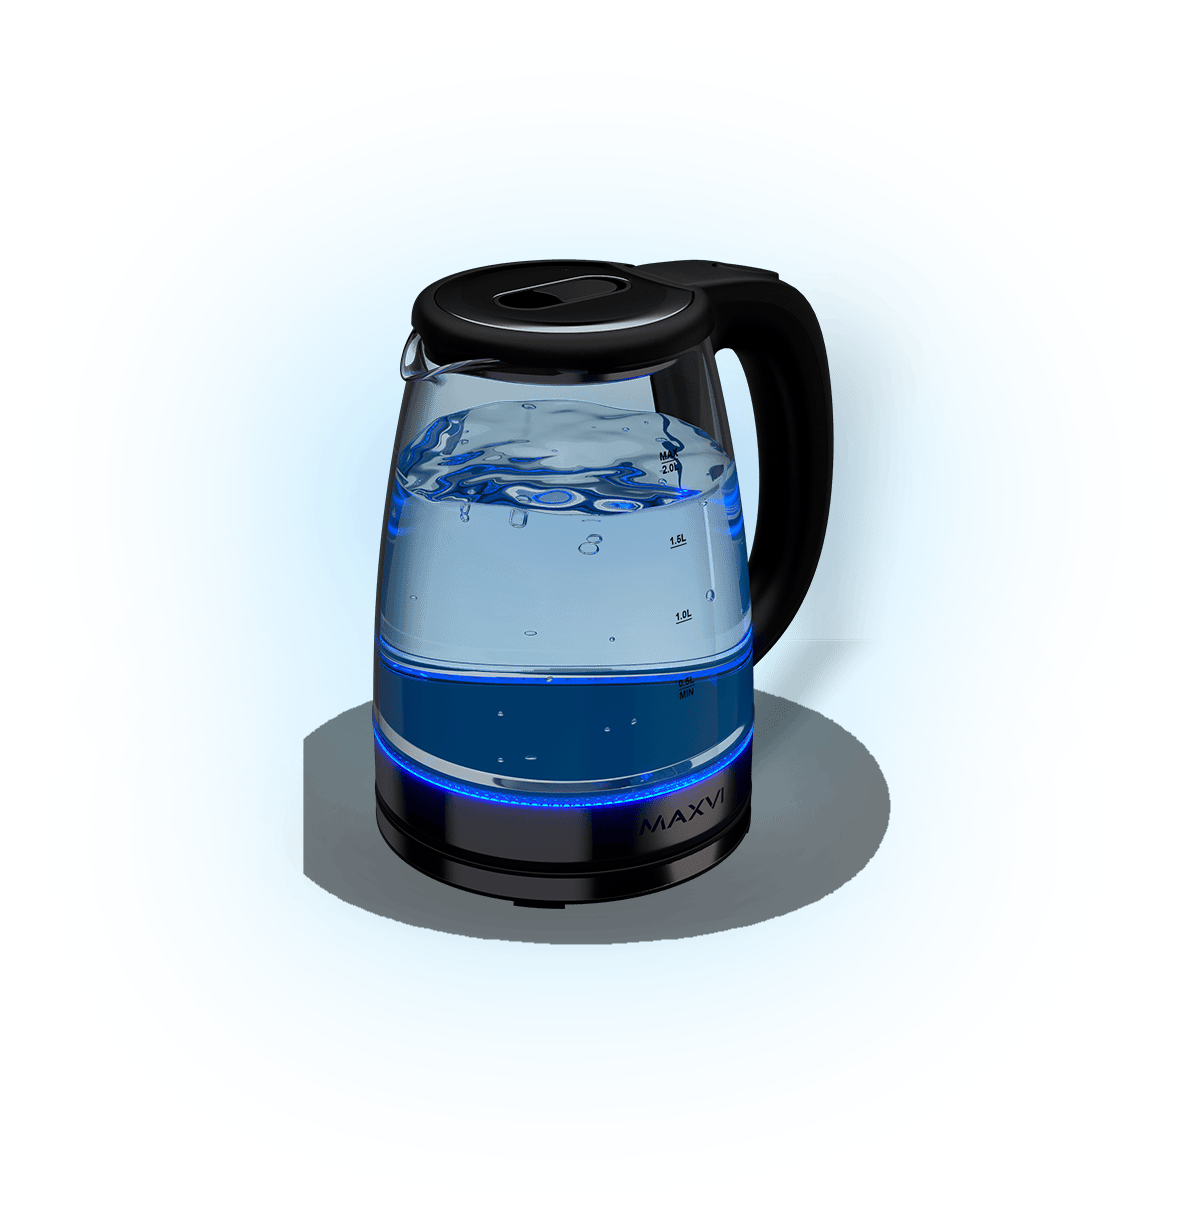
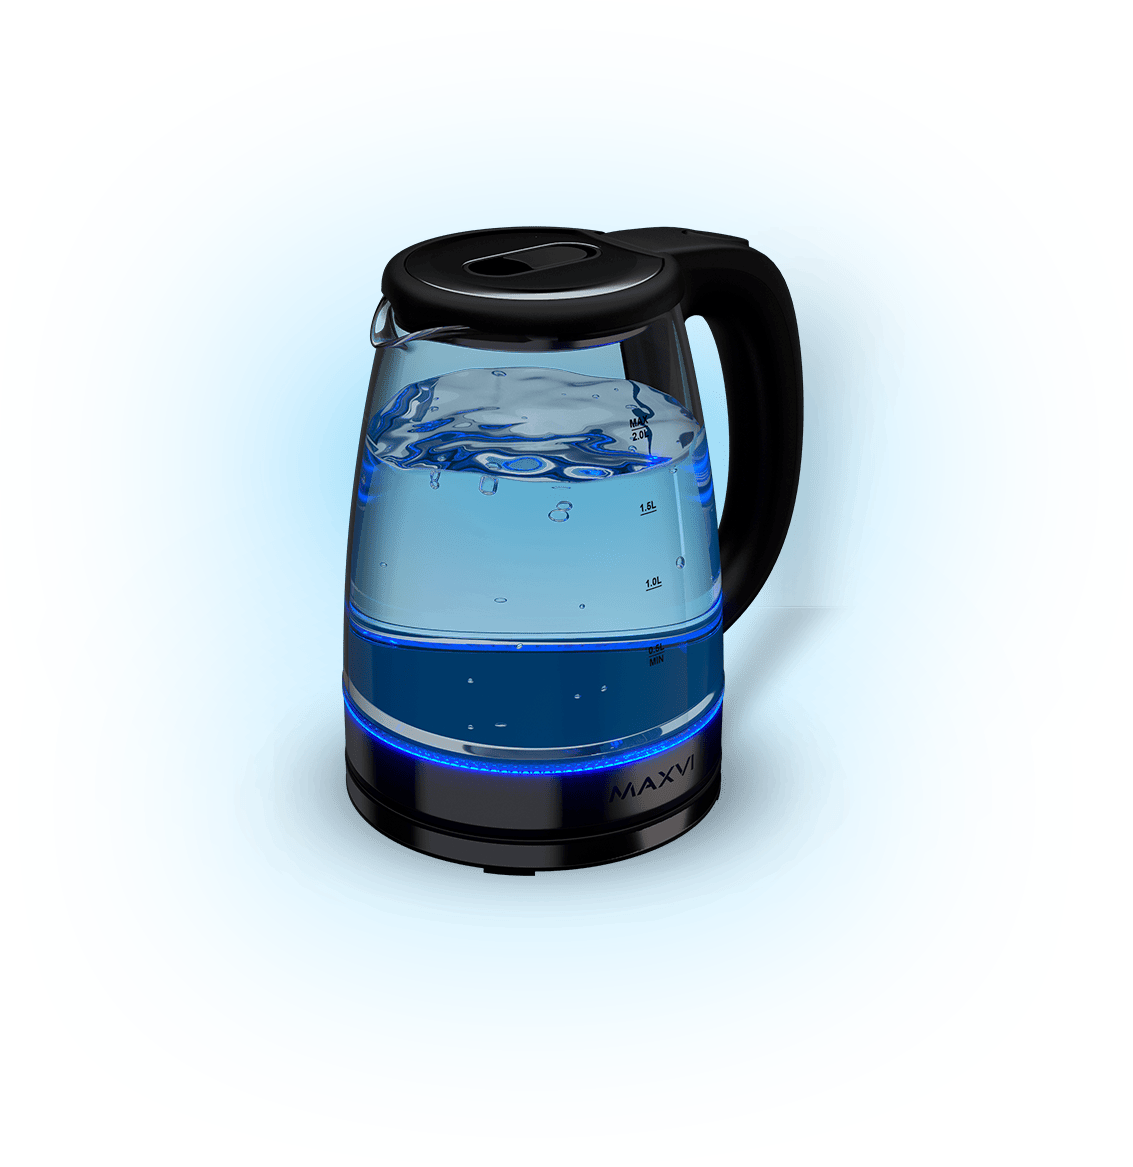
Maxvi KE2041G v2

Changed region(s): [[0.2471, 0.1851, 0.7414, 0.7712]]

diff --git a/KE2041G-v2/files/css/style.css b/KE2041G-v2/files/css/style.css
@@ -1,1 +1,1 @@
-:root{--w-wrapper: 2160px;--w-container: 1220px;--c-default: #010101;--c-dark: #000;--c-light: #fff;--c-warning: #ff8400;--c-blue: #43a6eb}.KE2041G-landing{overflow:hidden;max-width:var(--w-wrapper);margin:auto;background:#fff;font-family:'Roboto', sans-serif;font-size:18px;font-weight:400;color:var(--c-default);line-height:1.25}.KE2041G-landing section{position:relative;background-position:center center;background-repeat:no-repeat;-webkit-background-size:cover;background-size:cover}.KE2041G-landing img{max-width:100%;pointer-events:none}.KE2041G-landing .container{position:relative;width:100%;max-width:var(--w-container);padding-left:50px;padding-right:50px}.KE2041G-landing .d-flex{-webkit-display:flex;-ms-display:flex;display:flex;-webkit-flex-wrap:wrap;-ms-flex-wrap:wrap;flex-wrap:wrap}.KE2041G-landing .d-flex.row:before,.KE2041G-landing .d-flex.row:after{display:none}.KE2041G-landing .flex-nowrap{-ms-flex-wrap:nowrap;flex-wrap:nowrap}.KE2041G-landing .justify-content-center{justify-content:center}.KE2041G-landing .align-items-start{align-items:start}.KE2041G-landing .align-items-center{align-items:center}.KE2041G-landing .align-self-center{align-self:center}.KE2041G-landing .align-self-end{align-self:flex-end}.KE2041G-landing .section-dark,.KE2041G-landing .section-dark .KE2041G-title,.KE2041G-landing .section-dark .KE2041G-subtitle,.KE2041G-landing .section-dark .KE2041G-description{color:#fff}.KE2041G-title{margin:0 0 20px;font-size:35px;font-weight:700;line-height:normal}.KE2041G-title span{font-weight:300}.KE2041G-title .text-lead{font-size:180%;font-weight:900;line-height:normal}.KE2041G-description{margin:0 0 45px;font-size:20px;font-weight:400;line-height:normal}.KE2041G-description p{margin:0}.KE2041G-description p+p{margin-top:20px}.KE2041G-description ul{margin:0 0 0 15px;padding:0;list-style:none}.KE2041G-media-figure{position:relative;opacity:1 !important;margin:0}.KE2041G-media-figure .KE2041G-media{max-width:100%;max-height:100%}.KE2041G-size{overflow:hidden;position:relative;height:805px;padding-top:0;padding-bottom:0;background-color:#737373;background-image:linear-gradient(3deg, #6d6d6d 0%, #fff 65%)}.KE2041G-size .KE2041G-title,.KE2041G-size .KE2041G-subtitle,.KE2041G-size .KE2041G-description,.KE2041G-size .KE2041G-model{position:absolute;z-index:9;left:15px;right:15px;color:var(--c-light)}.KE2041G-size .KE2041G-title{top:380px;font-size:75px;font-weight:300;line-height:0.95}.KE2041G-size .KE2041G-title .text-lead{font-size:140%;line-height:0.5}.KE2041G-size .KE2041G-title .text-lead .text-value{font-size:210%;font-weight:900;line-height:inherit}.KE2041G-size .KE2041G-model{top:220px;font-size:86px;font-weight:900;color:var(--c-default)}.KE2041G-size .KE2041G-media-figure{position:absolute;z-index:1;top:25px;left:15px;right:15px;width:1855px;height:1189px;margin:auto}.KE2041G-size .KE2041G-media-figure .KE2041G-media{width:inherit;height:inherit}.KE2041G-design{height:765px;padding-top:0;padding-bottom:0;background-color:var(--c-light)}.KE2041G-design .KE2041G-title,.KE2041G-design .KE2041G-subtitle,.KE2041G-design .KE2041G-description{position:absolute;z-index:9;left:15px;right:15px;color:var(--c-warning)}.KE2041G-design .KE2041G-title{top:260px;font-size:66px;font-weight:900;line-height:1.1}.KE2041G-design .KE2041G-media-figure{position:absolute;top:-80px;left:15px;right:15px;width:631px;height:944px;margin:auto}.KE2041G-design .KE2041G-media-figure .KE2041G-media{width:inherit;height:inherit}.KE2041G-led{overflow:hidden;height:825px;padding-top:0;padding-bottom:0;background-color:var(--c-dark)}.KE2041G-led .KE2041G-title,.KE2041G-led .KE2041G-subtitle,.KE2041G-led .KE2041G-description{position:absolute;z-index:9;left:15px;right:15px;color:var(--c-blue) !important}.KE2041G-led .KE2041G-title{top:405px;font-size:55px;font-weight:900;line-height:1.1}.KE2041G-led .KE2041G-media-figure{position:absolute;top:-170px;left:15px;right:15px;width:1202px;height:1232px;margin:auto}.KE2041G-led .KE2041G-media-figure .KE2041G-media{width:inherit;height:inherit}
+:root{--w-wrapper: 2160px;--w-container: 1220px;--c-default: #010101;--c-dark: #000;--c-light: #fff;--c-warning: #ff8400;--c-blue: #43a6eb}.KE2041G-landing{overflow:hidden;max-width:var(--w-wrapper);margin:auto;background:#fff;font-family:'Roboto', sans-serif;font-size:18px;font-weight:400;color:var(--c-default);line-height:1.25}.KE2041G-landing section{position:relative;background-position:center center;background-repeat:no-repeat;-webkit-background-size:cover;background-size:cover}.KE2041G-landing img{max-width:100%;pointer-events:none}.KE2041G-landing .container{position:relative;width:100%;max-width:var(--w-container);padding-left:50px;padding-right:50px}.KE2041G-landing .d-flex{-webkit-display:flex;-ms-display:flex;display:flex;-webkit-flex-wrap:wrap;-ms-flex-wrap:wrap;flex-wrap:wrap}.KE2041G-landing .d-flex.row:before,.KE2041G-landing .d-flex.row:after{display:none}.KE2041G-landing .flex-nowrap{-ms-flex-wrap:nowrap;flex-wrap:nowrap}.KE2041G-landing .justify-content-center{justify-content:center}.KE2041G-landing .align-items-start{align-items:start}.KE2041G-landing .align-items-center{align-items:center}.KE2041G-landing .align-self-center{align-self:center}.KE2041G-landing .align-self-end{align-self:flex-end}.KE2041G-landing .section-dark,.KE2041G-landing .section-dark .KE2041G-title,.KE2041G-landing .section-dark .KE2041G-subtitle,.KE2041G-landing .section-dark .KE2041G-description{color:#fff}.KE2041G-title{margin:0 0 20px;font-size:35px;font-weight:700;line-height:normal}.KE2041G-title span{font-weight:300}.KE2041G-title .text-lead{font-size:180%;font-weight:900;line-height:normal}.KE2041G-description{margin:0 0 45px;font-size:20px;font-weight:400;line-height:normal}.KE2041G-description p{margin:0}.KE2041G-description p+p{margin-top:20px}.KE2041G-description ul{margin:0 0 0 15px;padding:0;list-style:none}.KE2041G-media-figure{position:relative;opacity:1 !important;margin:0}.KE2041G-media-figure .KE2041G-media{max-width:100%;max-height:100%}.KE2041G-size{overflow:hidden;position:relative;height:805px;padding-top:0;padding-bottom:0;background-color:#737373;background-image:linear-gradient(3deg, #6d6d6d 0%, #fff 65%)}.KE2041G-size .KE2041G-title,.KE2041G-size .KE2041G-subtitle,.KE2041G-size .KE2041G-description,.KE2041G-size .KE2041G-model{position:absolute;z-index:9;left:15px;right:15px;color:var(--c-light)}.KE2041G-size .KE2041G-title{top:380px;font-size:75px;font-weight:300;line-height:0.95}.KE2041G-size .KE2041G-title .text-lead{font-size:140%;line-height:0.5}.KE2041G-size .KE2041G-title .text-lead .text-value{font-size:210%;font-weight:900;line-height:inherit}.KE2041G-size .KE2041G-model{top:220px;font-size:86px;font-weight:900;color:var(--c-default)}.KE2041G-size .KE2041G-media-figure{position:absolute;z-index:1;top:25px;left:15px;right:15px;width:1855px;height:1189px;margin:auto}.KE2041G-size .KE2041G-media-figure .KE2041G-media{width:inherit;height:inherit}.KE2041G-design{height:765px;padding-top:0;padding-bottom:0;background-color:var(--c-light)}.KE2041G-design .KE2041G-title,.KE2041G-design .KE2041G-subtitle,.KE2041G-design .KE2041G-description{position:absolute;z-index:9;left:15px;right:15px;color:var(--c-warning)}.KE2041G-design .KE2041G-title{top:260px;font-size:66px;font-weight:900;line-height:1.1}.KE2041G-design .KE2041G-media-figure{position:absolute;top:-80px;left:15px;right:15px;width:631px;height:944px;margin:auto}.KE2041G-design .KE2041G-media-figure .KE2041G-media{width:inherit;height:inherit}.KE2041G-led{overflow:hidden;height:825px;padding-top:0;padding-bottom:0;background-color:var(--c-dark)}.KE2041G-led .KE2041G-title,.KE2041G-led .KE2041G-subtitle,.KE2041G-led .KE2041G-description{position:absolute;z-index:9;left:15px;right:15px;color:var(--c-blue) !important}.KE2041G-led .KE2041G-title{top:405px;font-size:55px;font-weight:900;line-height:1.1}.KE2041G-led .KE2041G-media-figure{position:absolute;top:-130px;left:30px;right:30px;width:1133px;height:1167px;margin:auto}.KE2041G-led .KE2041G-media-figure .KE2041G-media{width:inherit;height:inherit}

diff --git a/KE2041G-v2/files/css/style-responsive.css b/KE2041G-v2/files/css/style-responsive.css
@@ -1,1 +1,1 @@
-@media (max-width: 1199px){.KE2041G-size{height:685px}.KE2041G-size .KE2041G-title{top:320px;font-size:64px}.KE2041G-size .KE2041G-model{top:185px;font-size:72px}.KE2041G-size .KE2041G-media-figure{top:20px;width:1576px;height:1010px}.KE2041G-design{height:650px}.KE2041G-design .KE2041G-title{top:220px;font-size:56px}.KE2041G-design .KE2041G-media-figure{top:-70px;width:535px;height:800px}.KE2041G-led{height:700px}.KE2041G-led .KE2041G-title{top:345px;font-size:46px}.KE2041G-led .KE2041G-media-figure{top:-145px;width:1020px;height:1045px}}@media (max-width: 991px){.KE2041G-landing .container{padding-left:40px;padding-right:40px}.KE2041G-size{height:580px}.KE2041G-size .KE2041G-title{top:270px;font-size:54px;line-height:1}.KE2041G-size .KE2041G-model{top:155px;font-size:60px}.KE2041G-size .KE2041G-media-figure{top:15px;width:1340px;height:858px}.KE2041G-design{height:550px}.KE2041G-design .KE2041G-title{top:185px;font-size:46px}.KE2041G-design .KE2041G-media-figure{top:-60px;width:455px;height:680px}.KE2041G-led{height:595px}.KE2041G-led .KE2041G-title{top:290px;font-size:38px}.KE2041G-led .KE2041G-media-figure{top:-120px;width:865px;height:886px}}@media (max-width: 767px){.KE2041G-landing .container{padding-left:20px;padding-right:20px}.KE2041G-landing .content-inner{margin-bottom:40px;text-align:center}.KE2041G-title,.KE2041G-subtitle,.KE2041G-description{max-width:280px}.KE2041G-title{margin:0 0 15px;font-size:28px !important;line-height:1.25}.KE2041G-subtitle{font-size:24px !important}.KE2041G-description{margin:0 0 20px;font-size:20px !important;line-height:1.3}.KE2041G-title[data-aos],.KE2041G-subtitle[data-aos],.KE2041G-description[data-aos],.KE2041G-media-figure[data-aos]{transform:translate(0, 50px) !important}.KE2041G-title[data-aos].aos-animate,.KE2041G-subtitle[data-aos].aos-animate,.KE2041G-description[data-aos].aos-animate,.KE2041G-media-figure[data-aos].aos-animate{transform:translate(0) !important}.KE2041G-size{height:580px;background-image:linear-gradient(3deg, #6d6d6d 0%, #fff 100%)}.KE2041G-size .KE2041G-title{top:150px;line-height:1.2}.KE2041G-size .KE2041G-model{top:40px;font-size:40px}.KE2041G-size .KE2041G-media-figure{top:155px;left:-110px;right:-110px;width:1000px;height:640px}.KE2041G-design{height:625px}.KE2041G-design .KE2041G-title{top:40px}.KE2041G-design .KE2041G-media-figure{top:170px;left:50px;right:50px;width:360px;height:538px}.KE2041G-led{height:595px}.KE2041G-led .KE2041G-title{top:40px}.KE2041G-led .KE2041G-media-figure{top:15px;left:-150px;right:-150px;width:692px;height:710px}}
+@media (max-width: 1199px){.KE2041G-size{height:685px}.KE2041G-size .KE2041G-title{top:320px;font-size:64px}.KE2041G-size .KE2041G-model{top:185px;font-size:72px}.KE2041G-size .KE2041G-media-figure{top:20px;width:1576px;height:1010px}.KE2041G-design{height:650px}.KE2041G-design .KE2041G-title{top:220px;font-size:56px}.KE2041G-design .KE2041G-media-figure{top:-70px;width:535px;height:800px}.KE2041G-led{height:700px}.KE2041G-led .KE2041G-title{top:345px;font-size:46px}.KE2041G-led .KE2041G-media-figure{top:-110px;width:960px;height:989px}}@media (max-width: 991px){.KE2041G-landing .container{padding-left:40px;padding-right:40px}.KE2041G-size{height:580px}.KE2041G-size .KE2041G-title{top:270px;font-size:54px;line-height:1}.KE2041G-size .KE2041G-model{top:155px;font-size:60px}.KE2041G-size .KE2041G-media-figure{top:15px;width:1340px;height:858px}.KE2041G-design{height:550px}.KE2041G-design .KE2041G-title{top:185px;font-size:46px}.KE2041G-design .KE2041G-media-figure{top:-60px;width:455px;height:680px}.KE2041G-led{height:595px}.KE2041G-led .KE2041G-title{top:290px;font-size:38px}.KE2041G-led .KE2041G-media-figure{top:-100px;width:815px;height:840px}}@media (max-width: 767px){.KE2041G-landing .container{padding-left:20px;padding-right:20px}.KE2041G-landing .content-inner{margin-bottom:40px;text-align:center}.KE2041G-title,.KE2041G-subtitle,.KE2041G-description{max-width:280px}.KE2041G-title{margin:0 0 15px;font-size:28px !important;line-height:1.25}.KE2041G-subtitle{font-size:24px !important}.KE2041G-description{margin:0 0 20px;font-size:20px !important;line-height:1.3}.KE2041G-title[data-aos],.KE2041G-subtitle[data-aos],.KE2041G-description[data-aos],.KE2041G-media-figure[data-aos]{transform:translate(0, 50px) !important}.KE2041G-title[data-aos].aos-animate,.KE2041G-subtitle[data-aos].aos-animate,.KE2041G-description[data-aos].aos-animate,.KE2041G-media-figure[data-aos].aos-animate{transform:translate(0) !important}.KE2041G-size{height:580px;background-image:linear-gradient(3deg, #6d6d6d 0%, #fff 100%)}.KE2041G-size .KE2041G-title{top:150px;line-height:1.2}.KE2041G-size .KE2041G-model{top:40px;font-size:40px}.KE2041G-size .KE2041G-media-figure{top:155px;left:-110px;right:-110px;width:1000px;height:640px}.KE2041G-design{height:625px}.KE2041G-design .KE2041G-title{top:40px}.KE2041G-design .KE2041G-media-figure{top:170px;left:50px;right:50px;width:360px;height:538px}.KE2041G-led{height:620px}.KE2041G-led .KE2041G-title{top:40px}.KE2041G-led .KE2041G-media-figure{top:40px;left:-180px;right:-180px;width:692px;height:712px}}

diff --git a/KE2041G-v2/files/scss/style-responsive.scss b/KE2041G-v2/files/scss/style-responsive.scss
@@ -51,9 +51,9 @@
         }
 
         .KE2041G-media-figure {
-            top: -145px;
-            width: 1020px;
-            height: 1045px;
+            top: -110px;
+            width: 960px;
+            height: 989px;
         }
     }
 
@@ -120,9 +120,9 @@
         }
 
         .KE2041G-media-figure {
-            top: -120px;
-            width: 865px;
-            height: 886px;
+            top: -100px;
+            width: 815px;
+            height: 840px;
         }
     }
 
@@ -225,18 +225,18 @@
 
     /* section led */
     .KE2041G-led {
-        height: 595px;
+        height: 620px;
 
         .KE2041G-title {
             top: 40px;
         }
 
         .KE2041G-media-figure {
-            top: 15px;
-            left: -150px;
-            right: -150px;
+            top: 40px;
+            left: -180px;
+            right: -180px;
             width: 692px;
-            height: 710px;
+            height: 712px;
         }
     }
 

diff --git a/KE2041G-v2/index.html b/KE2041G-v2/index.html
@@ -77,8 +77,8 @@
 
                     <div class="KE2041G-media-container col-xs-12 col-sm-11 col-md-10 col-sm-offset-1 col-md-offset-2">
                         <figure class="KE2041G-media-figure" data-aos="fade-left" data-aos-duration="800">
-                            <img loading="lazy" src="files/images/section-led/KE2041G-led-kettle-front.png" width="1202"
-                                height="1232" alt="Электрочайник Maxvi KE2041G" class="KE2041G-media">
+                            <img loading="lazy" src="files/images/section-led/KE2041G-led-kettle-front.png" width="1133"
+                                height="1167" alt="Электрочайник Maxvi KE2041G" class="KE2041G-media">
                         </figure>
                     </div>
                 </div>

diff --git a/KE2041G-v2/files/scss/style.scss b/KE2041G-v2/files/scss/style.scss
@@ -270,11 +270,11 @@
 
     .KE2041G-media-figure {
         position: absolute;
-        top: -170px;
-        left: 15px;
-        right: 15px;
-        width: 1202px;
-        height: 1232px;
+        top: -130px;
+        left: 30px;
+        right: 30px;
+        width: 1133px;
+        height: 1167px;
         margin: auto;
 
         .KE2041G-media {

diff --git a/KE2041G-v2/include.php b/KE2041G-v2/include.php
@@ -93,8 +93,8 @@ $this->addExternalJS($folder . 'js/main.js');
 
                 <div class="KE2041G-media-container col-xs-12 col-sm-11 col-md-10 col-sm-offset-1 col-md-offset-2">
                     <figure class="KE2041G-media-figure" data-aos="fade-left" data-aos-duration="800">
-                        <img loading="lazy" src="<?= $folder ?>images/section-led/KE2041G-led-kettle-front.png" width="1202"
-                            height="1232" alt="Электрочайник Maxvi KE2041G" class="KE2041G-media">
+                        <img loading="lazy" src="<?= $folder ?>images/section-led/KE2041G-led-kettle-front.png" width="1133"
+                                height="1167" alt="Электрочайник Maxvi KE2041G" class="KE2041G-media">
                     </figure>
                 </div>
             </div>
